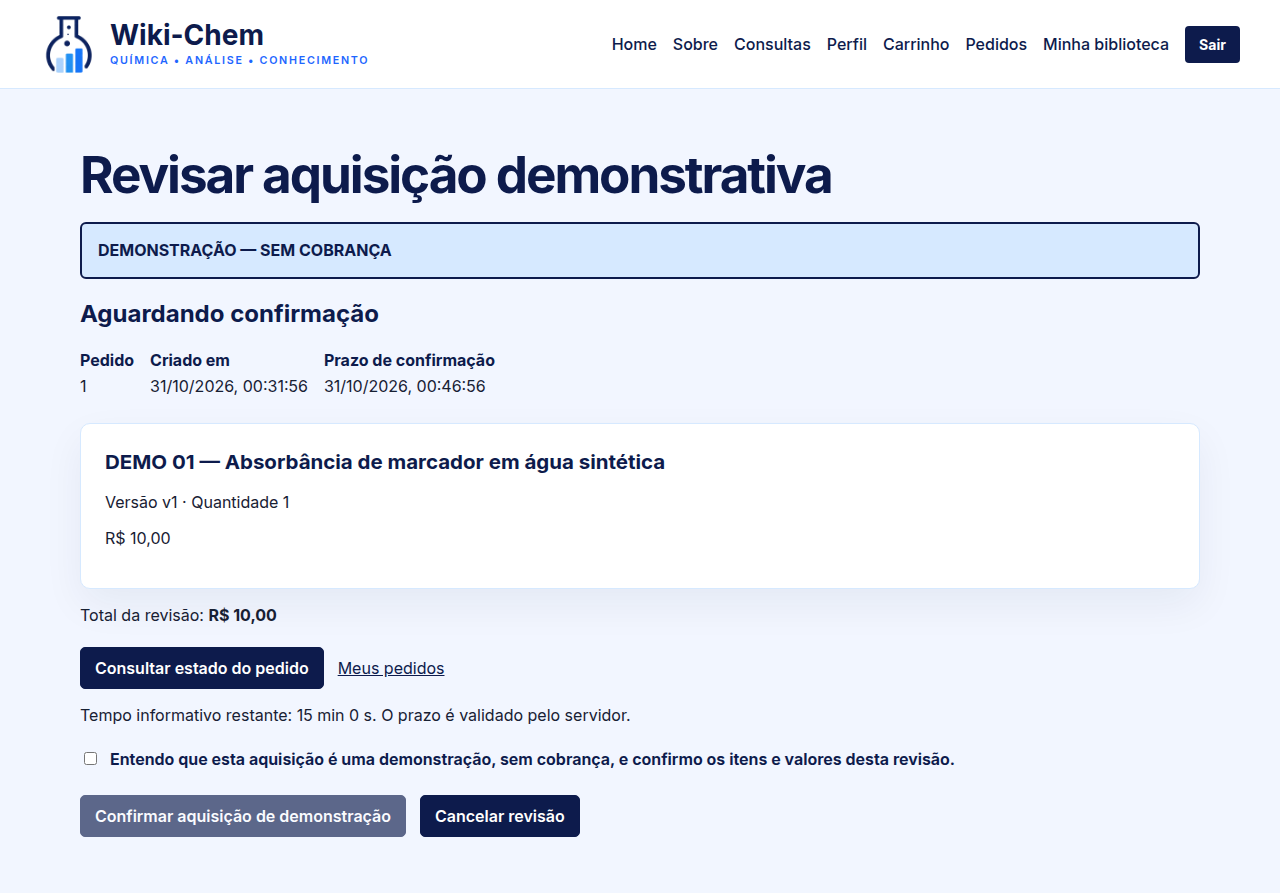
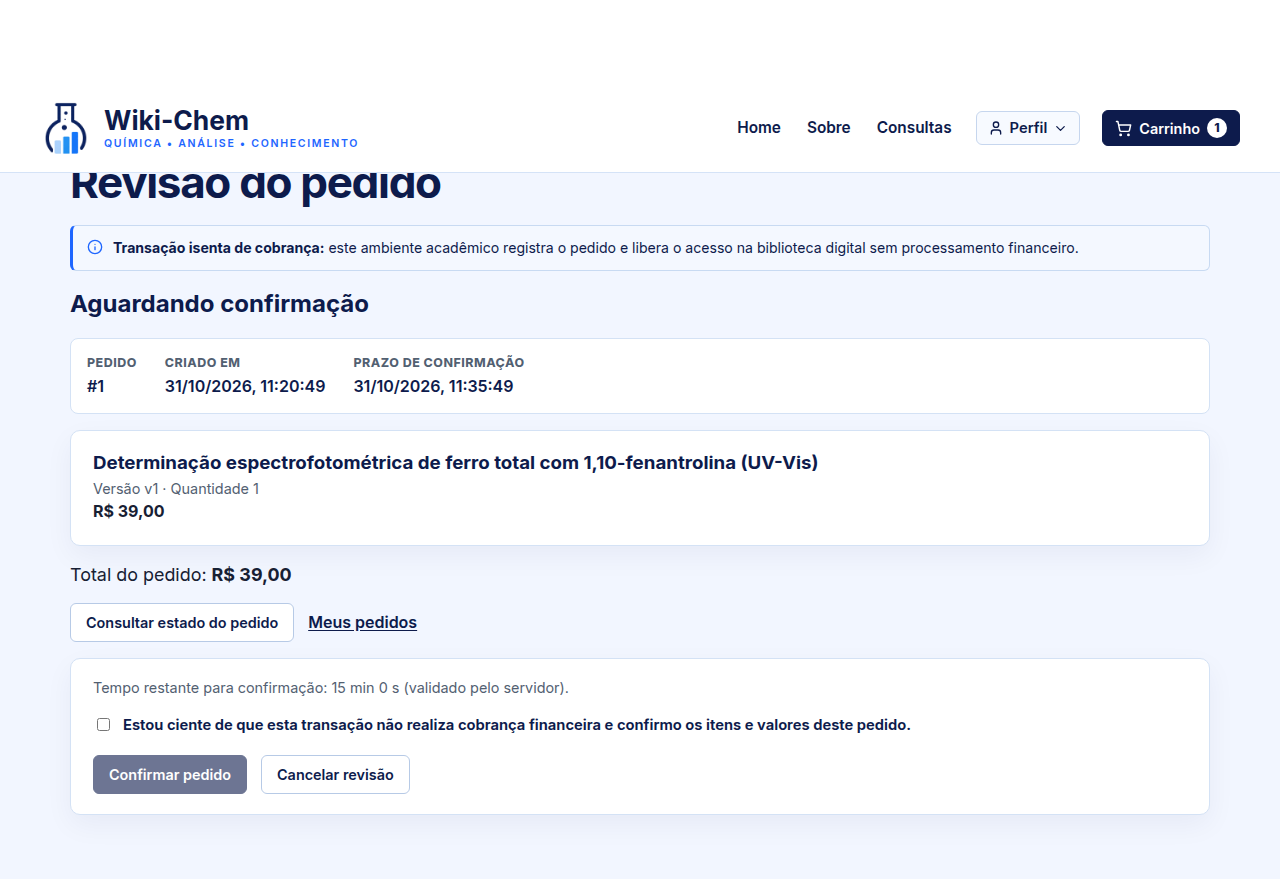
docs(academico): atualizar evidencias visuais e medicoes observadas do MVP

diff --git a/docs/academico/evidencias/README.md b/docs/academico/evidencias/README.md
@@ -1,14 +1,14 @@
 # Capturas reais da demonstração
 
-18 imagens produzidas automaticamente em 2026-10-31T00:32:00.072Z por Chromium, consumindo API e MySQL reais em ambiente isolado. Todas foram revisadas; não são mockups e os originais não foram editados. Senhas, e-mails e evidências privadas são mascarados pelo próprio navegador no momento da captura, com a cor azul escura da interface. Contas e conteúdos comerciais são sintéticos; as fichas técnicas analíticas são exclusivamente informativas (sem cópia de procedimento integral e sem oferta comercial) e não representam revisão científica humana.
+18 imagens produzidas automaticamente em 2026-10-31T11:20:55.075Z por Chromium, consumindo API Fastify e MySQL 8.4 reais em ambiente isolado. Todas foram revisadas; não são mockups e os originais não foram editados. Senhas, e-mails e evidências privadas são mascarados pelo próprio navegador no momento da captura, com a cor azul escura da interface. Os 15 guias técnicos digitais são produtos interpretativos autorais do Wiki-Chem fundamentados em fontes públicas oficiais da U.S. EPA e do USGS (sem reprodução de normas de terceiros e sem revisão científica humana).
 
-O [manifesto](manifest.json) registra descrição, dimensões e hash SHA-256 de cada arquivo para conferência de integridade. As figuras comerciais mantêm DEMONSTRAÇÃO — SEM COBRANÇA.
+O [manifesto](manifest.json) registra descrição, dimensões e hash SHA-256 de cada arquivo para conferência de integridade. A etapa de checkout informa de modo discreto e inequívoco que a transação é isenta de cobrança financeira.
 
 ## Figura 1 — home
 
-Página inicial, identidade visual preservada.
+Página inicial com identidade Wiki-Chem preservada.
 
-![Página inicial, identidade visual preservada.](01-home.png)
+![Página inicial com identidade Wiki-Chem preservada.](01-home.png)
 
 ## Figura 2 — cadastro
 
@@ -24,90 +24,90 @@ Cadastro concluído e acesso por autenticação real.
 
 ## Figura 4 — pesquisa
 
-Catálogo demonstrativo com 15 fichas técnicas analíticas verificadas e 5 fixtures comerciais sintéticas.
+Pesquisa simplificada inicial com filtros avançados recolhidos, orientação amigável e contador de carrinho vazio.
 
-![Catálogo demonstrativo com 15 fichas técnicas analíticas verificadas e 5 fixtures comerciais sintéticas.](04-pesquisa.png)
+![Pesquisa simplificada inicial com filtros avançados recolhidos, orientação amigável e contador de carrinho vazio.](04-pesquisa.png)
 
 ## Figura 5 — sete-filtros
 
-Pesquisa por ferro combinada com espectrofotometria/UV-Vis e os sete filtros analíticos reais.
+Pesquisa por ferro combinada com espectrofotometria/UV-Vis, sete filtros sob demanda e cartão compacto comercial em BRL.
 
-![Pesquisa por ferro combinada com espectrofotometria/UV-Vis e os sete filtros analíticos reais.](05-sete-filtros.png)
+![Pesquisa por ferro combinada com espectrofotometria/UV-Vis, sete filtros sob demanda e cartão compacto comercial em BRL.](05-sete-filtros.png)
 
 ## Figura 6 — previa
 
-Prévia gratuita e oferta de demonstração sintética separada das fichas informativas.
+Página de metodologia inspirada na organização comercial da ASTM: identificação WK-ANL-001, escopo conciso, referências e caixa lateral de aquisição em BRL.
 
-![Prévia gratuita e oferta de demonstração sintética separada das fichas informativas.](06-previa.png)
+![Página de metodologia inspirada na organização comercial da ASTM: identificação WK-ANL-001, escopo conciso, referências e caixa lateral de aquisição em BRL.](06-previa.png)
 
 ## Figura 7 — carrinho
 
-Carrinho persistente com valores de fixture explicitamente demonstrativos.
+Carrinho persistente com contador dinâmico no cabeçalho e produto analítico em BRL.
 
-![Carrinho persistente com valores de fixture explicitamente demonstrativos.](07-carrinho.png)
+![Carrinho persistente com contador dinâmico no cabeçalho e produto analítico em BRL.](07-carrinho.png)
 
 ## Figura 8 — revisao-pedido
 
-Pedido pendente e confirmação explícita obrigatória; sem cobrança.
+Checkout com aviso discreto e inequívoco de isenção de cobrança financeira e confirmação explícita.
 
-![Pedido pendente e confirmação explícita obrigatória; sem cobrança.](08-revisao-pedido.png)
+![Checkout com aviso discreto e inequívoco de isenção de cobrança financeira e confirmação explícita.](08-revisao-pedido.png)
 
 ## Figura 9 — confirmacao
 
-Confirmação demonstrativa concluída e direito persistido.
+Pedido concluído, contador do carrinho zerado e direito de acesso liberado.
 
-![Confirmação demonstrativa concluída e direito persistido.](09-confirmacao.png)
+![Pedido concluído, contador do carrinho zerado e direito de acesso liberado.](09-confirmacao.png)
 
 ## Figura 10 — pedido
 
-Pedido persistido com título, versão e preço originais.
+Detalhes do pedido persistido com título, versão e valor consolidado em BRL.
 
-![Pedido persistido com título, versão e preço originais.](10-pedido.png)
+![Detalhes do pedido persistido com título, versão e valor consolidado em BRL.](10-pedido.png)
 
 ## Figura 11 — biblioteca
 
-Biblioteca do titular, sem procedimento na listagem.
+Acesso à Minha biblioteca pelo menu Perfil, sem expor o conteúdo integral na listagem.
 
-![Biblioteca do titular, sem procedimento na listagem.](11-biblioteca.png)
+![Acesso à Minha biblioteca pelo menu Perfil, sem expor o conteúdo integral na listagem.](11-biblioteca.png)
 
 ## Figura 12 — leitura-v1
 
-Texto integral original sintético liberado somente ao titular.
+Conteúdo técnico autoral estruturado e referências rastreáveis liberados na biblioteca do titular.
 
-![Texto integral original sintético liberado somente ao titular.](12-leitura-v1.png)
+![Conteúdo técnico autoral estruturado e referências rastreáveis liberados na biblioteca do titular.](12-leitura-v1.png)
 
 ## Figura 13 — admin-rascunho
 
-Administração separada: rascunho v2 de fixture sintética; evidências privadas mascaradas.
+Administração separada: edição da versão v2 do guia técnico autoral; evidências privadas mascaradas.
 
-![Administração separada: rascunho v2 de fixture sintética; evidências privadas mascaradas.](13-admin-rascunho.png)
+![Administração separada: edição da versão v2 do guia técnico autoral; evidências privadas mascaradas.](13-admin-rascunho.png)
 
 ## Figura 14 — revisao-automatizada
 
-Estado editorial de teste: conferência automatizada explicitamente identificada, sem revisão humana presumida.
+Revisão editorial explícita da versão v2 antes da publicação.
 
-![Estado editorial de teste: conferência automatizada explicitamente identificada, sem revisão humana presumida.](14-revisao-automatizada.png)
+![Revisão editorial explícita da versão v2 antes da publicação.](14-revisao-automatizada.png)
 
 ## Figura 15 — historico
 
-Atualização v2 disponível e escolha explícita da v1 adquirida, sem recompra.
+Atualização v2 disponível automaticamente ao titular e consulta explícita da v1 adquirida, sem recompra.
 
-![Atualização v2 disponível e escolha explícita da v1 adquirida, sem recompra.](15-historico.png)
+![Atualização v2 disponível automaticamente ao titular e consulta explícita da v1 adquirida, sem recompra.](15-historico.png)
 
 ## Figura 16 — leitura-320
 
-Leitura responsiva em viewport de 320 px.
+Leitura estruturada responsiva em viewport mobile de 320 px.
 
-![Leitura responsiva em viewport de 320 px.](16-leitura-320.png)
+![Leitura estruturada responsiva em viewport mobile de 320 px.](16-leitura-320.png)
 
 ## Figura 17 — pesquisa-320
 
-Pesquisa, navegação e sete categorias compactas em 320 px.
+Pesquisa simplificada, cabeçalho compacto e cartões comerciais em 320 px.
 
-![Pesquisa, navegação e sete categorias compactas em 320 px.](17-pesquisa-320.png)
+![Pesquisa simplificada, cabeçalho compacto e cartões comerciais em 320 px.](17-pesquisa-320.png)
 
 ## Figura 18 — classificacoes
 
-Gestão de taxonomias reais de química analítica, com identificação normativa explícita.
+Gestão administrativa de taxonomias analíticas e referências normativas.
 
-![Gestão de taxonomias reais de química analítica, com identificação normativa explícita.](18-classificacoes.png)
+![Gestão administrativa de taxonomias analíticas e referências normativas.](18-classificacoes.png)

diff --git a/docs/academico/desempenho/README.md b/docs/academico/desempenho/README.md
@@ -1,29 +1,29 @@
 # Medição observada da pesquisa
 
-Ensaio realizado em 2026-10-31T00:30:36.305Z, com Node v24.19.0, MySQL 8.4.13 e linux. O processo reportou 4 CPUs lógicas, modelo AMD EPYC 9V45 96-Core Processor e 15.61 GiB de memória visível (`16759443456` bytes); esses valores não representam reserva exclusiva de recursos.
+Ensaio realizado em 2026-10-31T11:19:02.202Z, com Node v24.19.0, MySQL 8.4.13 e linux. O processo reportou 4 CPUs lógicas, modelo AMD EPYC 7763 64-Core Processor e 15.61 GiB de memória visível (`16759443456` bytes); esses valores não representam reserva exclusiva de recursos.
 
-O ensaio parte das 20 publicações iniciais do catálogo demonstrativo (15 fichas técnicas informativas verificadas + 5 fixtures comerciais sintéticas) e escala com fixtures sintéticas até 100 e 500 metodologias/versões publicadas, totalizando 73 termos ativos nas sete taxonomias e 3723 associações N:N ao final. Somente cinco metodologias possuem produtos/ofertas comerciais. Cada série inclui três aquecimentos e 20 amostras; p95 usa a posição de ordem `ceil(0,95 × n)`, sem excluir amostras. Preparação do corpus não integra o tempo de consulta.
+O ensaio parte das 15 metodologias publicadas ativas do catálogo demonstrativo (produtos digitais autorais do Wiki-Chem fundamentados em fontes públicas EPA/USGS, com os 5 registros sintéticos legados arquivados em `RETIRED`) e escala com registros sintéticos de volume até 20, 100 e 500 versões publicadas, totalizando 73 termos ativos nas sete taxonomias e 3723 associações N:N ao final. Cada série inclui três aquecimentos e 20 amostras; p95 usa a posição de ordem `ceil(0,95 × n)`, sem excluir amostras. Preparação do corpus não integra o tempo de consulta.
 
 | Metodologias | Cenário | Amostras | Resultados | Mediana (ms) | p95 (ms) | Máximo (ms) |
-| --- | --- | --- | --- | --- | --- | --- |
-| 20 | texto com acento | 20 | 3 | 4.43 | 5.49 | 9.55 |
-| 20 | sete filtros AND | 20 | 0 | 1.43 | 1.47 | 1.48 |
-| 20 | matrizes e analitos OR | 20 | 4 | 2.56 | 2.92 | 2.98 |
-| 20 | sem resultados | 20 | 0 | 2.98 | 3.07 | 3.13 |
-| 20 | pagina intermediaria ordenada | 20 | 20 | 0.55 | 0.74 | 0.79 |
-| 100 | texto com acento | 20 | 19 | 11.37 | 11.82 | 11.96 |
-| 100 | sete filtros AND | 20 | 48 | 4.21 | 14.95 | 17.35 |
-| 100 | matrizes e analitos OR | 20 | 84 | 3.66 | 4.07 | 4.08 |
-| 100 | sem resultados | 20 | 0 | 10.72 | 10.91 | 11.80 |
-| 100 | pagina intermediaria ordenada | 20 | 100 | 2.99 | 3.32 | 3.38 |
-| 500 | texto com acento | 20 | 99 | 43.18 | 45.32 | 47.69 |
-| 500 | sete filtros AND | 20 | 288 | 7.07 | 7.75 | 8.04 |
-| 500 | matrizes e analitos OR | 20 | 484 | 7.20 | 7.63 | 7.91 |
-| 500 | sem resultados | 20 | 0 | 49.62 | 50.71 | 52.40 |
-| 500 | pagina intermediaria ordenada | 20 | 500 | 5.16 | 5.33 | 5.46 |
+| --- | --- | ---: | ---: | ---: | ---: | ---: |
+| 20 | texto com acento | 20 | 0 | 5.12 | 5.23 | 5.26 |
+| 20 | sete filtros AND | 20 | 0 | 2.79 | 2.91 | 3.00 |
+| 20 | matrizes e analitos OR | 20 | 4 | 5.54 | 5.87 | 5.99 |
+| 20 | sem resultados | 20 | 0 | 5.19 | 5.28 | 5.34 |
+| 20 | pagina intermediaria ordenada | 20 | 15 | 1.43 | 1.45 | 1.46 |
+| 100 | texto com acento | 20 | 16 | 18.94 | 19.42 | 19.63 |
+| 100 | sete filtros AND | 20 | 48 | 7.87 | 8.31 | 8.46 |
+| 100 | matrizes e analitos OR | 20 | 84 | 6.72 | 7.19 | 7.20 |
+| 100 | sem resultados | 20 | 0 | 17.23 | 17.47 | 18.20 |
+| 100 | pagina intermediaria ordenada | 20 | 95 | 6.00 | 6.47 | 6.55 |
+| 500 | texto com acento | 20 | 96 | 70.71 | 71.75 | 71.82 |
+| 500 | sete filtros AND | 20 | 288 | 13.45 | 13.90 | 13.93 |
+| 500 | matrizes e analitos OR | 20 | 484 | 12.35 | 12.61 | 16.47 |
+| 500 | sem resultados | 20 | 0 | 78.16 | 78.95 | 84.75 |
+| 500 | pagina intermediaria ordenada | 20 | 495 | 9.65 | 9.96 | 10.16 |
 
-A página 2 do volume de 20 registros é vazia (`pageSize = 20`); não deve ser interpretada como leitura de 20 cartões completos. As consultas puramente por filtros e paginação mantiveram medianas entre 5.16 e 7.20 ms com 500 publicações, enquanto a varredura textual completa (`LIKE` parametrizado em campos gratuitos, sete facetas ativas e fontes) apresentou medianas de 43.18 ms (com resultados) e 49.62 ms (sem resultados). Não existe meta ou SLA aprovado; esses números não representam latência HTTP, experiência do usuário ou carga concorrente.
+As consultas puramente por filtros e paginação mantiveram medianas entre 9.65 e 13.45 ms com 500 publicações, enquanto a varredura textual completa (`LIKE` parametrizado em campos gratuitos, sete facetas ativas e fontes) apresentou medianas de 70.71 ms (com resultados) e 78.16 ms (sem resultados). Não existe meta ou SLA aprovado; esses números não representam latência HTTP, experiência do usuário ou carga concorrente.
 
-O `EXPLAIN` da combinação dos sete filtros, incluído no [registro bruto](medicao.json), estimou varredura `ALL` em `methodology_versions` (500 linhas) e acessos `eq_ref`/`PRIMARY` nas sete tabelas de associação, além de consultas por chave às fontes. São estimativas do otimizador, não tempos medidos por nó.
+O `EXPLAIN` da combinação dos sete filtros, incluído no [registro bruto](medicao.json), estimou varredura sobre `methodology_versions` e acessos `eq_ref`/`PRIMARY` nas tabelas de associação e fontes. São estimativas do otimizador, não tempos medidos por nó.
 
-Limitações: conteúdo sintético de volume após os 20 registros iniciais, ambiente compartilhado aquecido, uma conexão por caso de uso e ausência de clientes concorrentes/rede/renderização. Não foi introduzido mecanismo externo de busca ou IA para este ensaio.
+Limitações: conteúdo sintético de volume após os registros analíticos iniciais, ambiente compartilhado aquecido, uma conexão por caso de uso e ausência de clientes concorrentes/rede/renderização. Não foi introduzido mecanismo externo de busca ou IA para este ensaio.

diff --git a/docs/academico/RESULTADOS.md b/docs/academico/RESULTADOS.md
@@ -6,7 +6,7 @@ A [medição observada](desempenho/README.md) e seu registro bruto documentam te
 
 ## Resultados funcionais e de ambiente
 
-A verificação automatizada consolidada aprovou **415 testes**: 105 de unidade e contratos do backend (regras de domínio, aliases químicos, preços acadêmicos configuráveis e validação de integridade dos guias comerciais), 102 de componentes e rotas React (menu suspenso `Perfil`, contador dinâmico em `Carrinho`, pesquisa simplificada com filtros recolhidos e termo obrigatório, cartões compactos, página de produto inspirada na ASTM, aviso discreto no checkout e leitura estruturada), 165 de integração com MySQL real, 15 de apresentação/responsividade/contraste/ativos e 28 de jornadas completas no navegador sobre API e MySQL reais. Instalação limpa, build, análise estática e auditorias de dependências completas e de produção foram aprovados com zero vulnerabilidades detectadas no momento da execução. As 48 migrações foram aplicadas e reexecutadas de forma idempotente.
+A verificação automatizada consolidada aprovou **413 testes**: 105 de unidade e contratos do backend (regras de domínio, aliases químicos, preços acadêmicos configuráveis e validação de integridade dos guias comerciais), 102 de componentes e rotas React (menu suspenso `Perfil`, contador dinâmico em `Carrinho`, pesquisa simplificada com filtros recolhidos e termo obrigatório, cartões compactos, página de produto inspirada na ASTM, aviso discreto no checkout e leitura estruturada), 163 de integração com MySQL real, 15 de apresentação/responsividade/contraste/ativos e 28 de jornadas completas no navegador sobre API e MySQL reais. Instalação limpa, build, análise estática e auditorias de dependências completas e de produção foram aprovados com zero vulnerabilidades detectadas no momento da execução. As 48 migrações foram aplicadas e reexecutadas de forma idempotente.
 
 No ambiente Docker Compose isolado (`wikichem-academic-demo`), foram verificados inicialização e prontidão dos serviços, reconciliação idempotente sem reset ou perda de contas/pedidos/direitos existentes, arquivamento dos cinco registros sintéticos legados (`RETIRED`, fora da pesquisa e da vitrine), disponibilidade dos **15 produtos digitais autorais do Wiki-Chem** (`WK-ANL-001` a `WK-ANL-015`) com preços em BRL (`R$ 29,00` a `R$ 68,00`), pesquisa combinada de `ferro` com espectrofotometria/UV-Vis, aquisição isenta de cobrança com desbloqueio imediato do guia estruturado na biblioteca, ciclo de backup/restauração, recusa de manifesto adulterado e ausência de privilégio DDL na conta da API.
 
